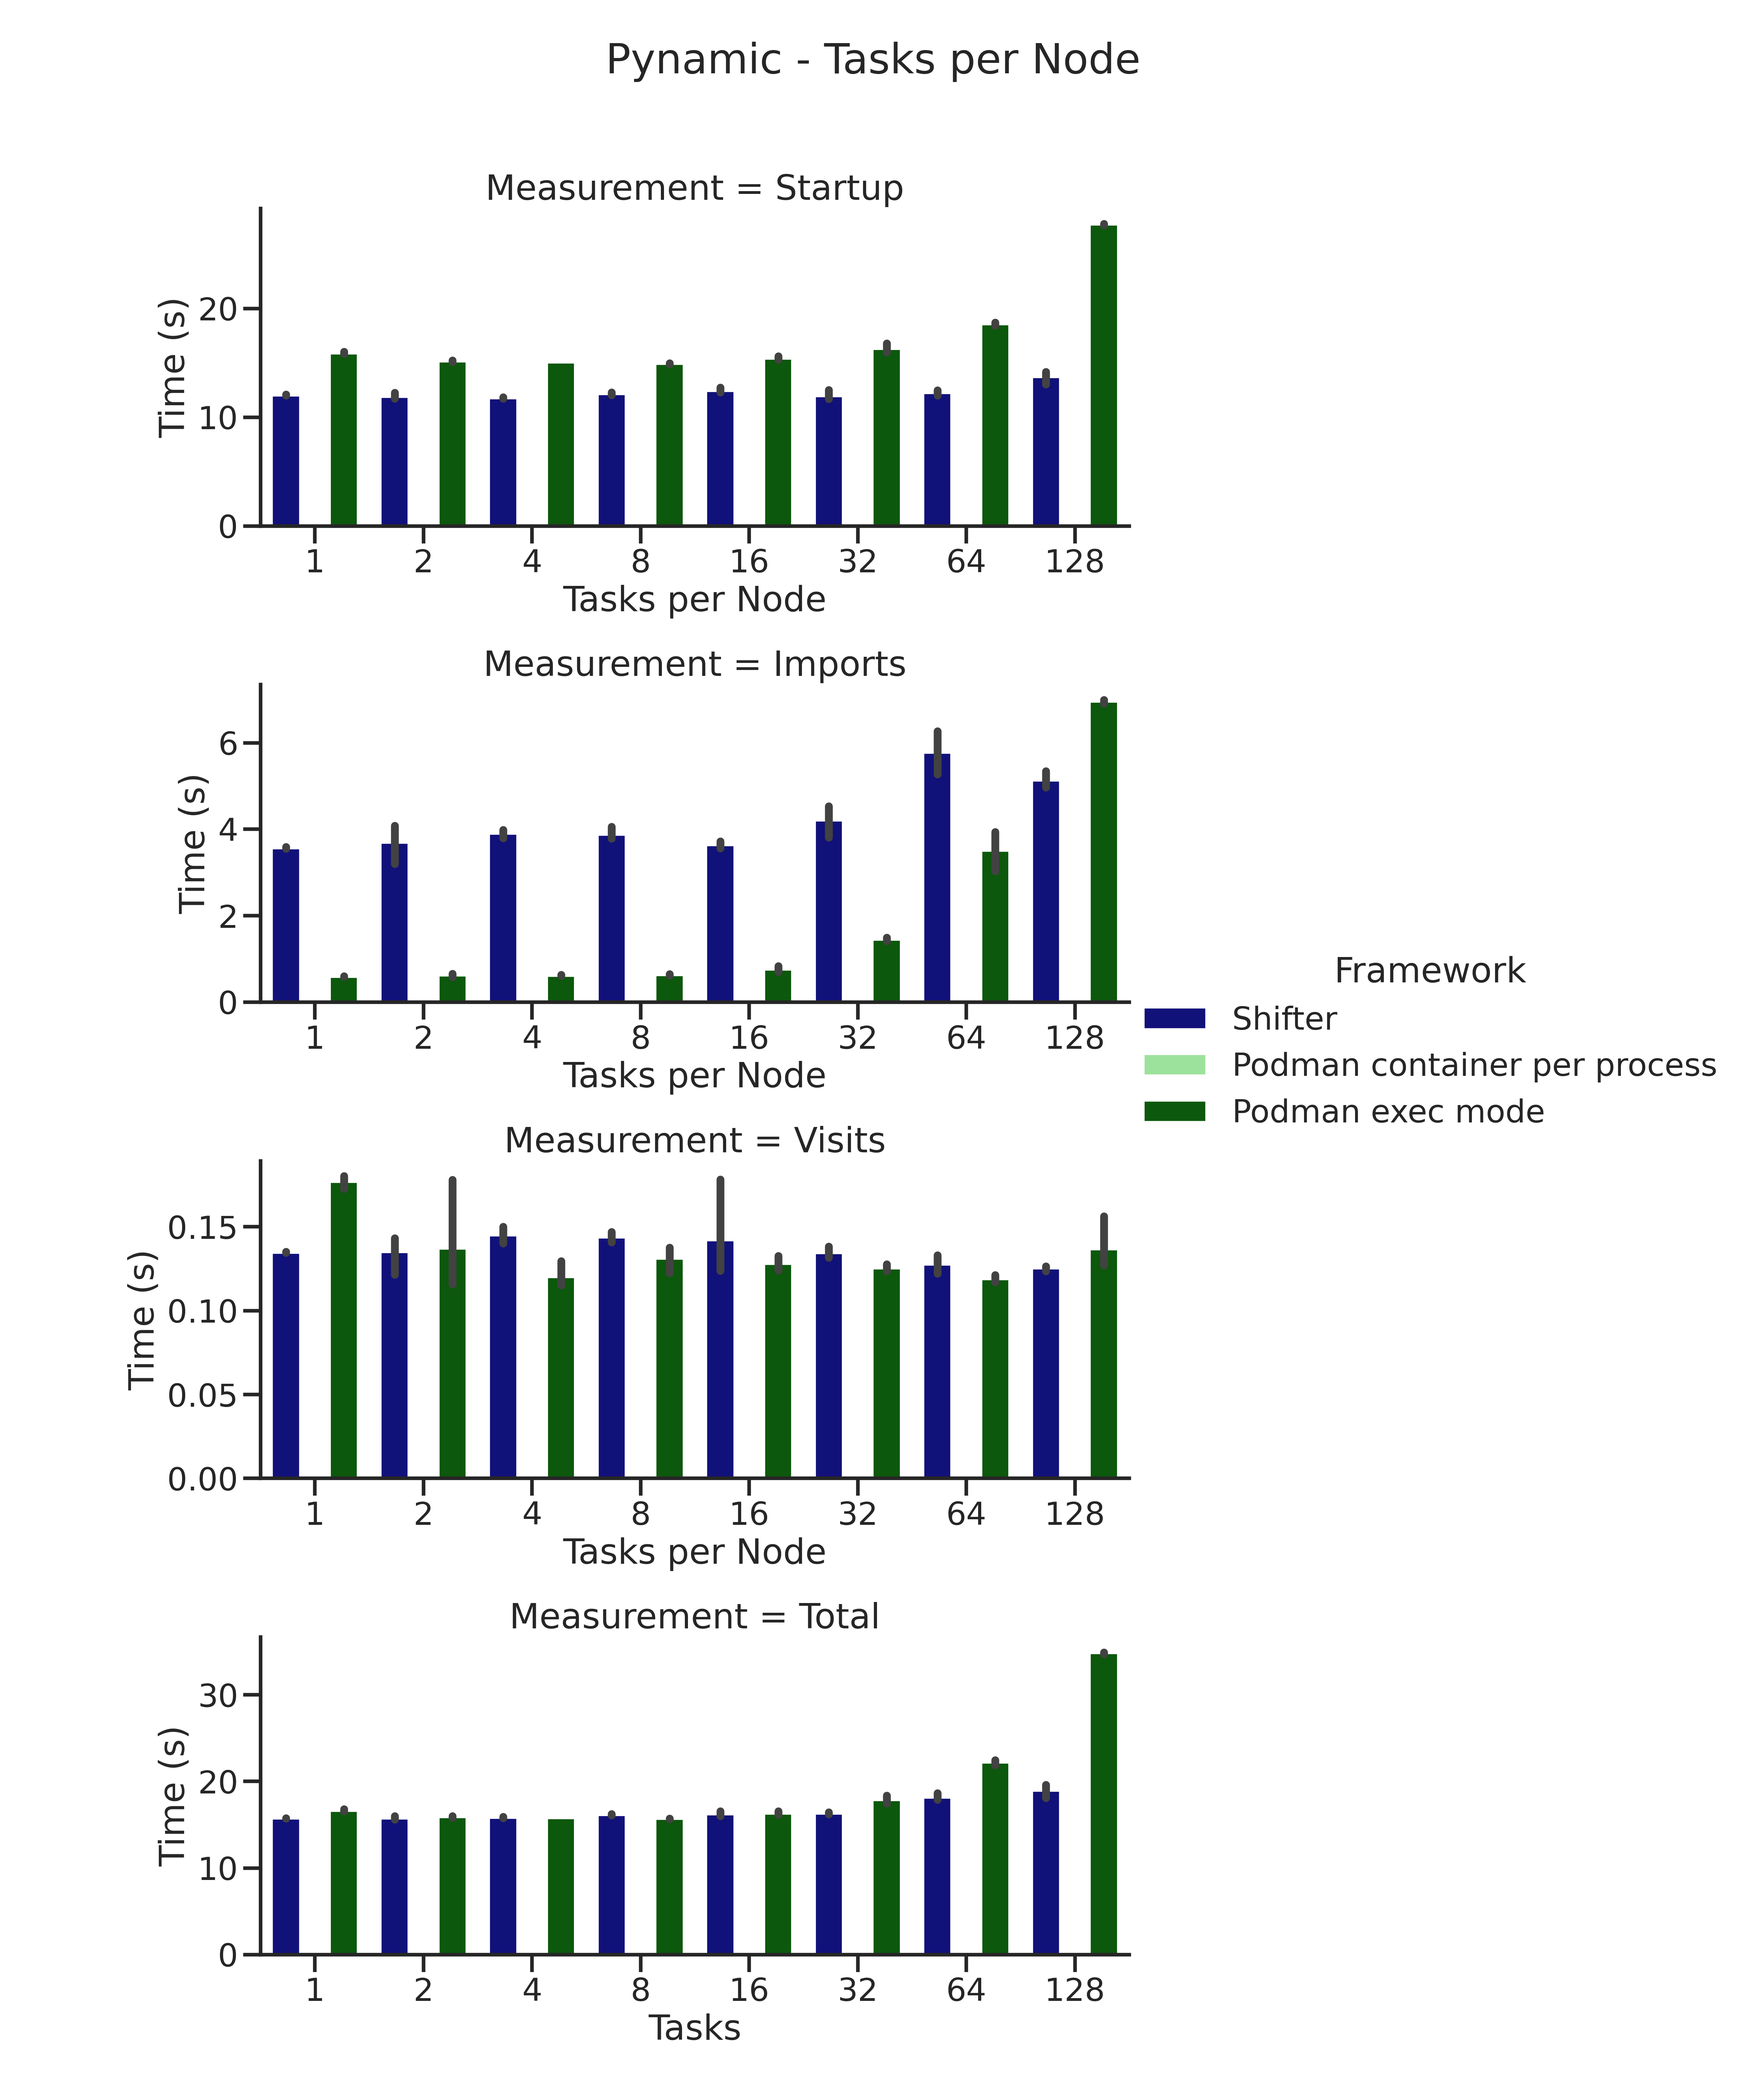
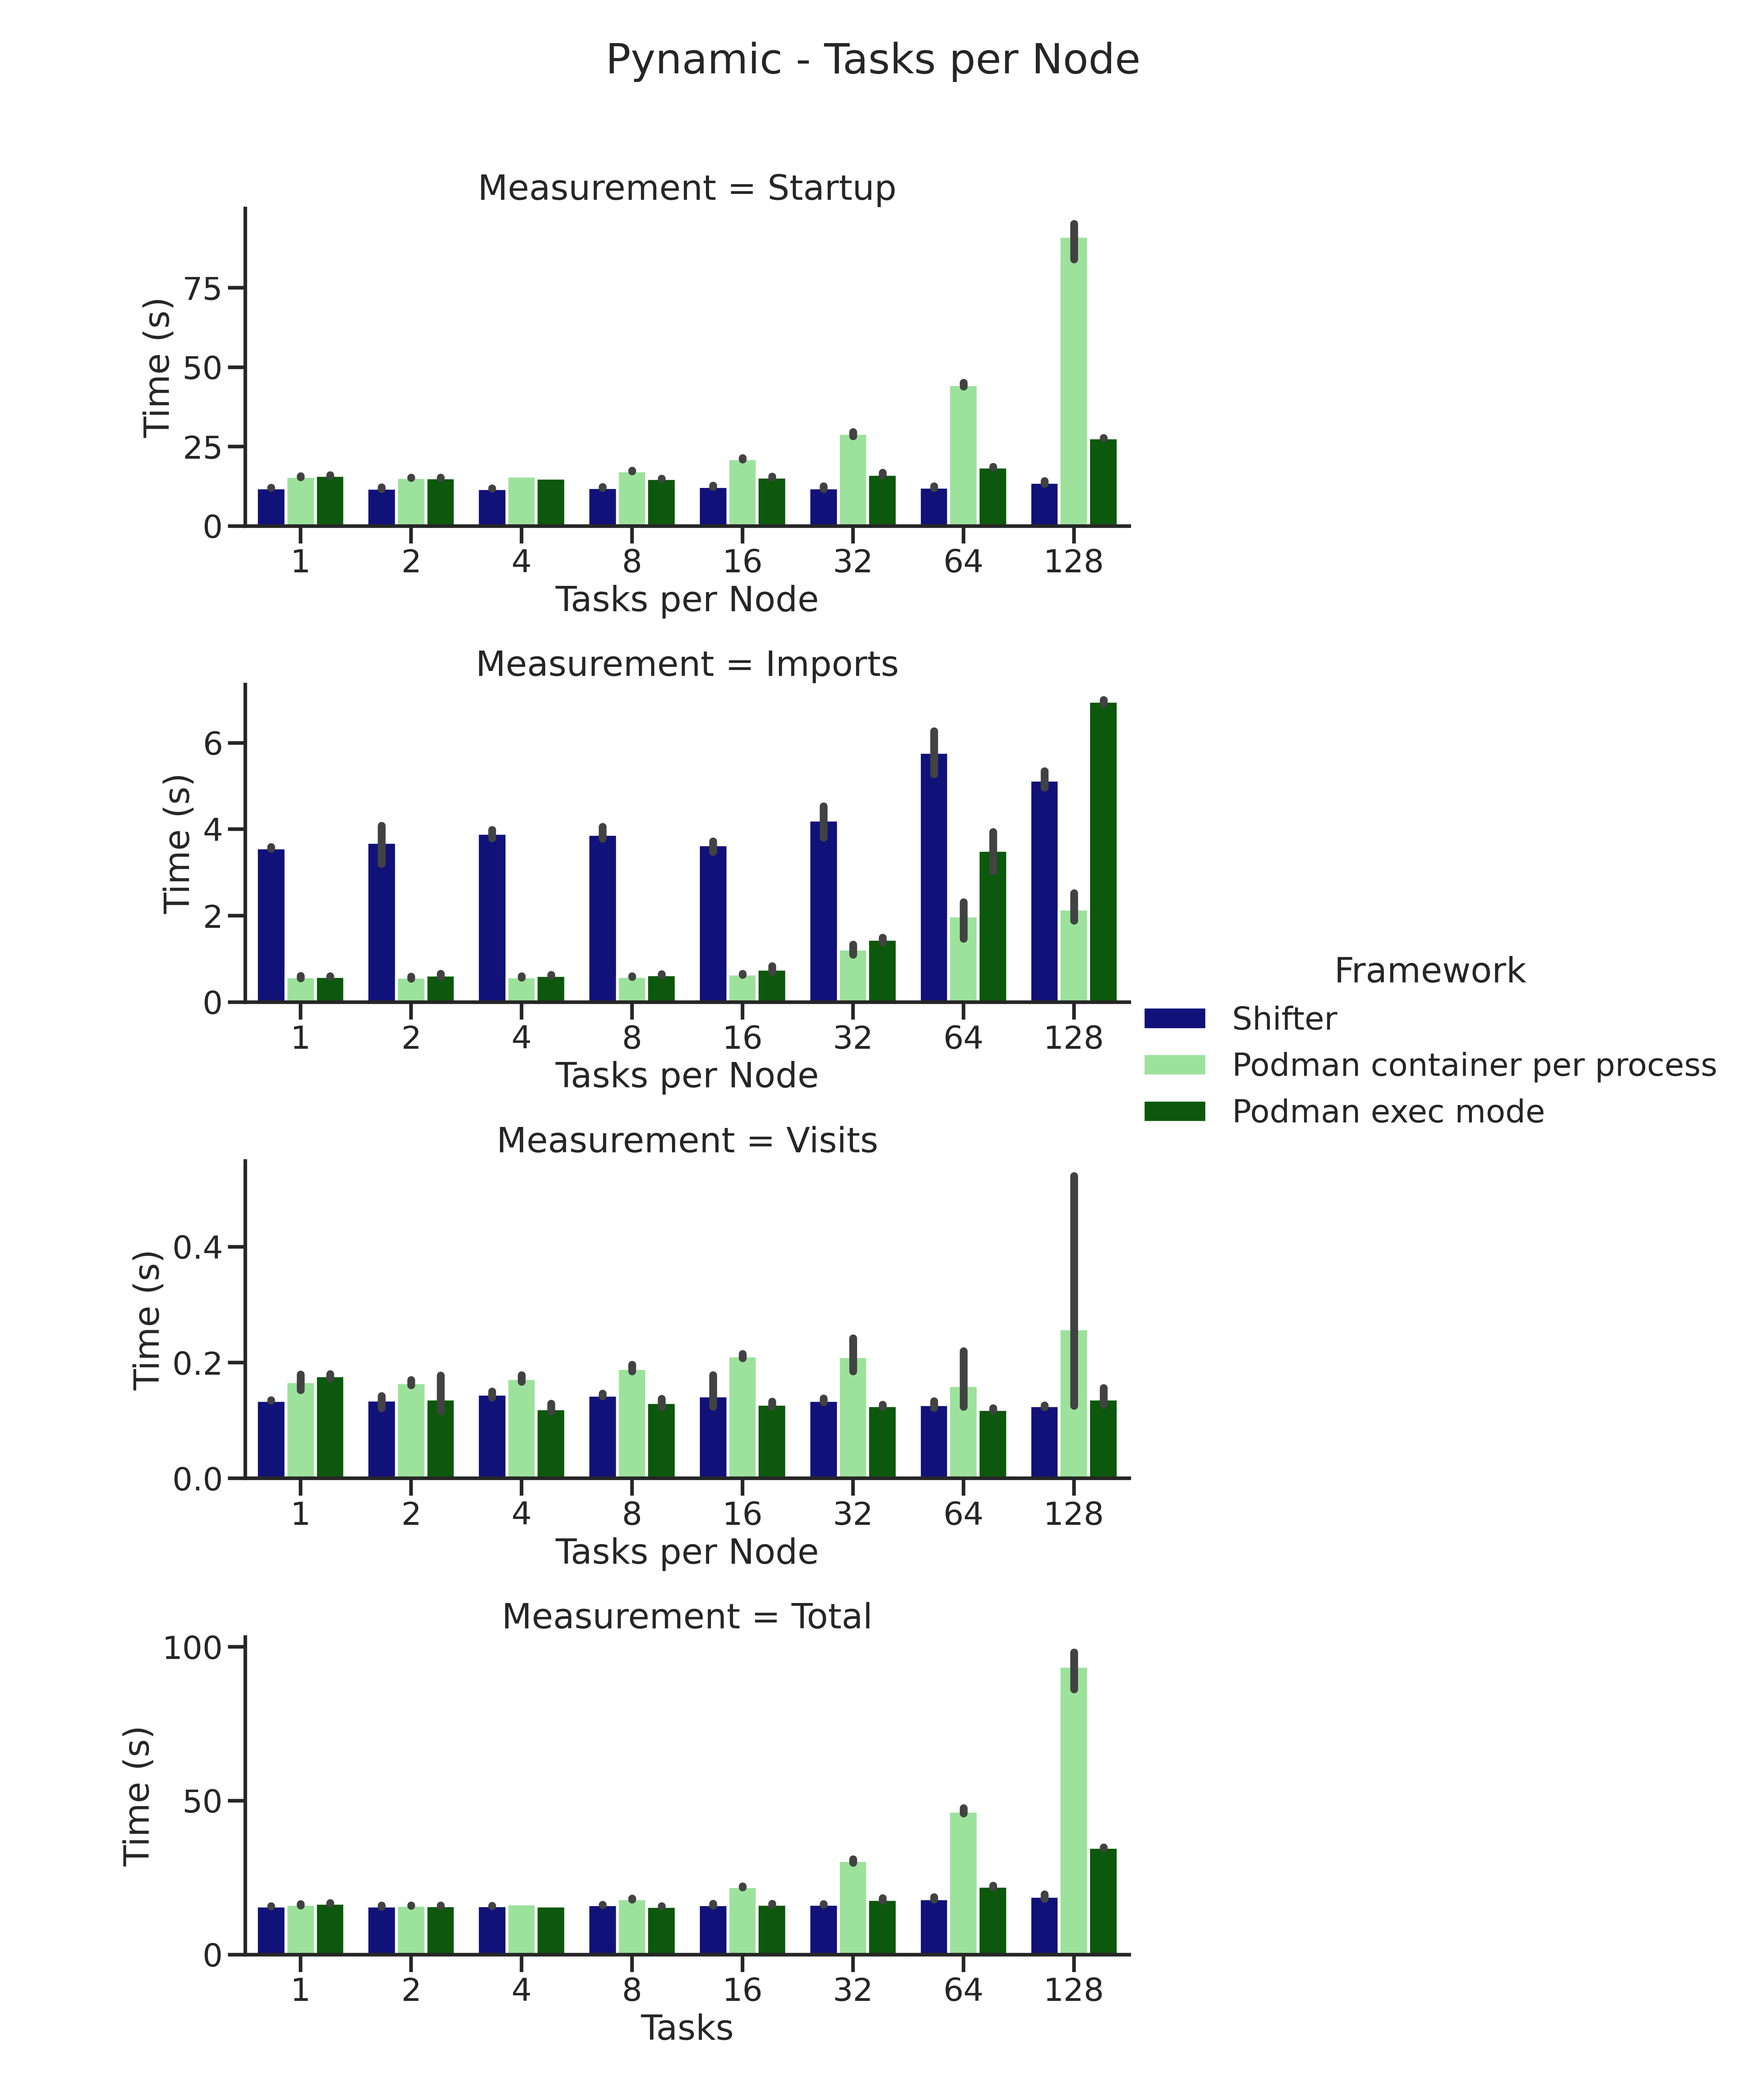
Fix missing container per process in pynamic per node

diff --git a/pynamic/2022-08-per_node-benchmarks/generate_plot.py b/pynamic/2022-08-per_node-benchmarks/generate_plot.py
@@ -56,6 +56,8 @@ if __name__ == "__main__":
         if line.startswith("RUN"):
             ele = line.replace("RUN:", "").rstrip().split(" - ")
             mode = ' '.join(ele[0:-1]).lstrip()
+            if mode == "Podman container per task":
+                mode = "Podman container per process"
             scale, rep = ele[-1].split(" ")
         elif line.find("import time") > 0:
             it = float(line.split(" ")[-2])
